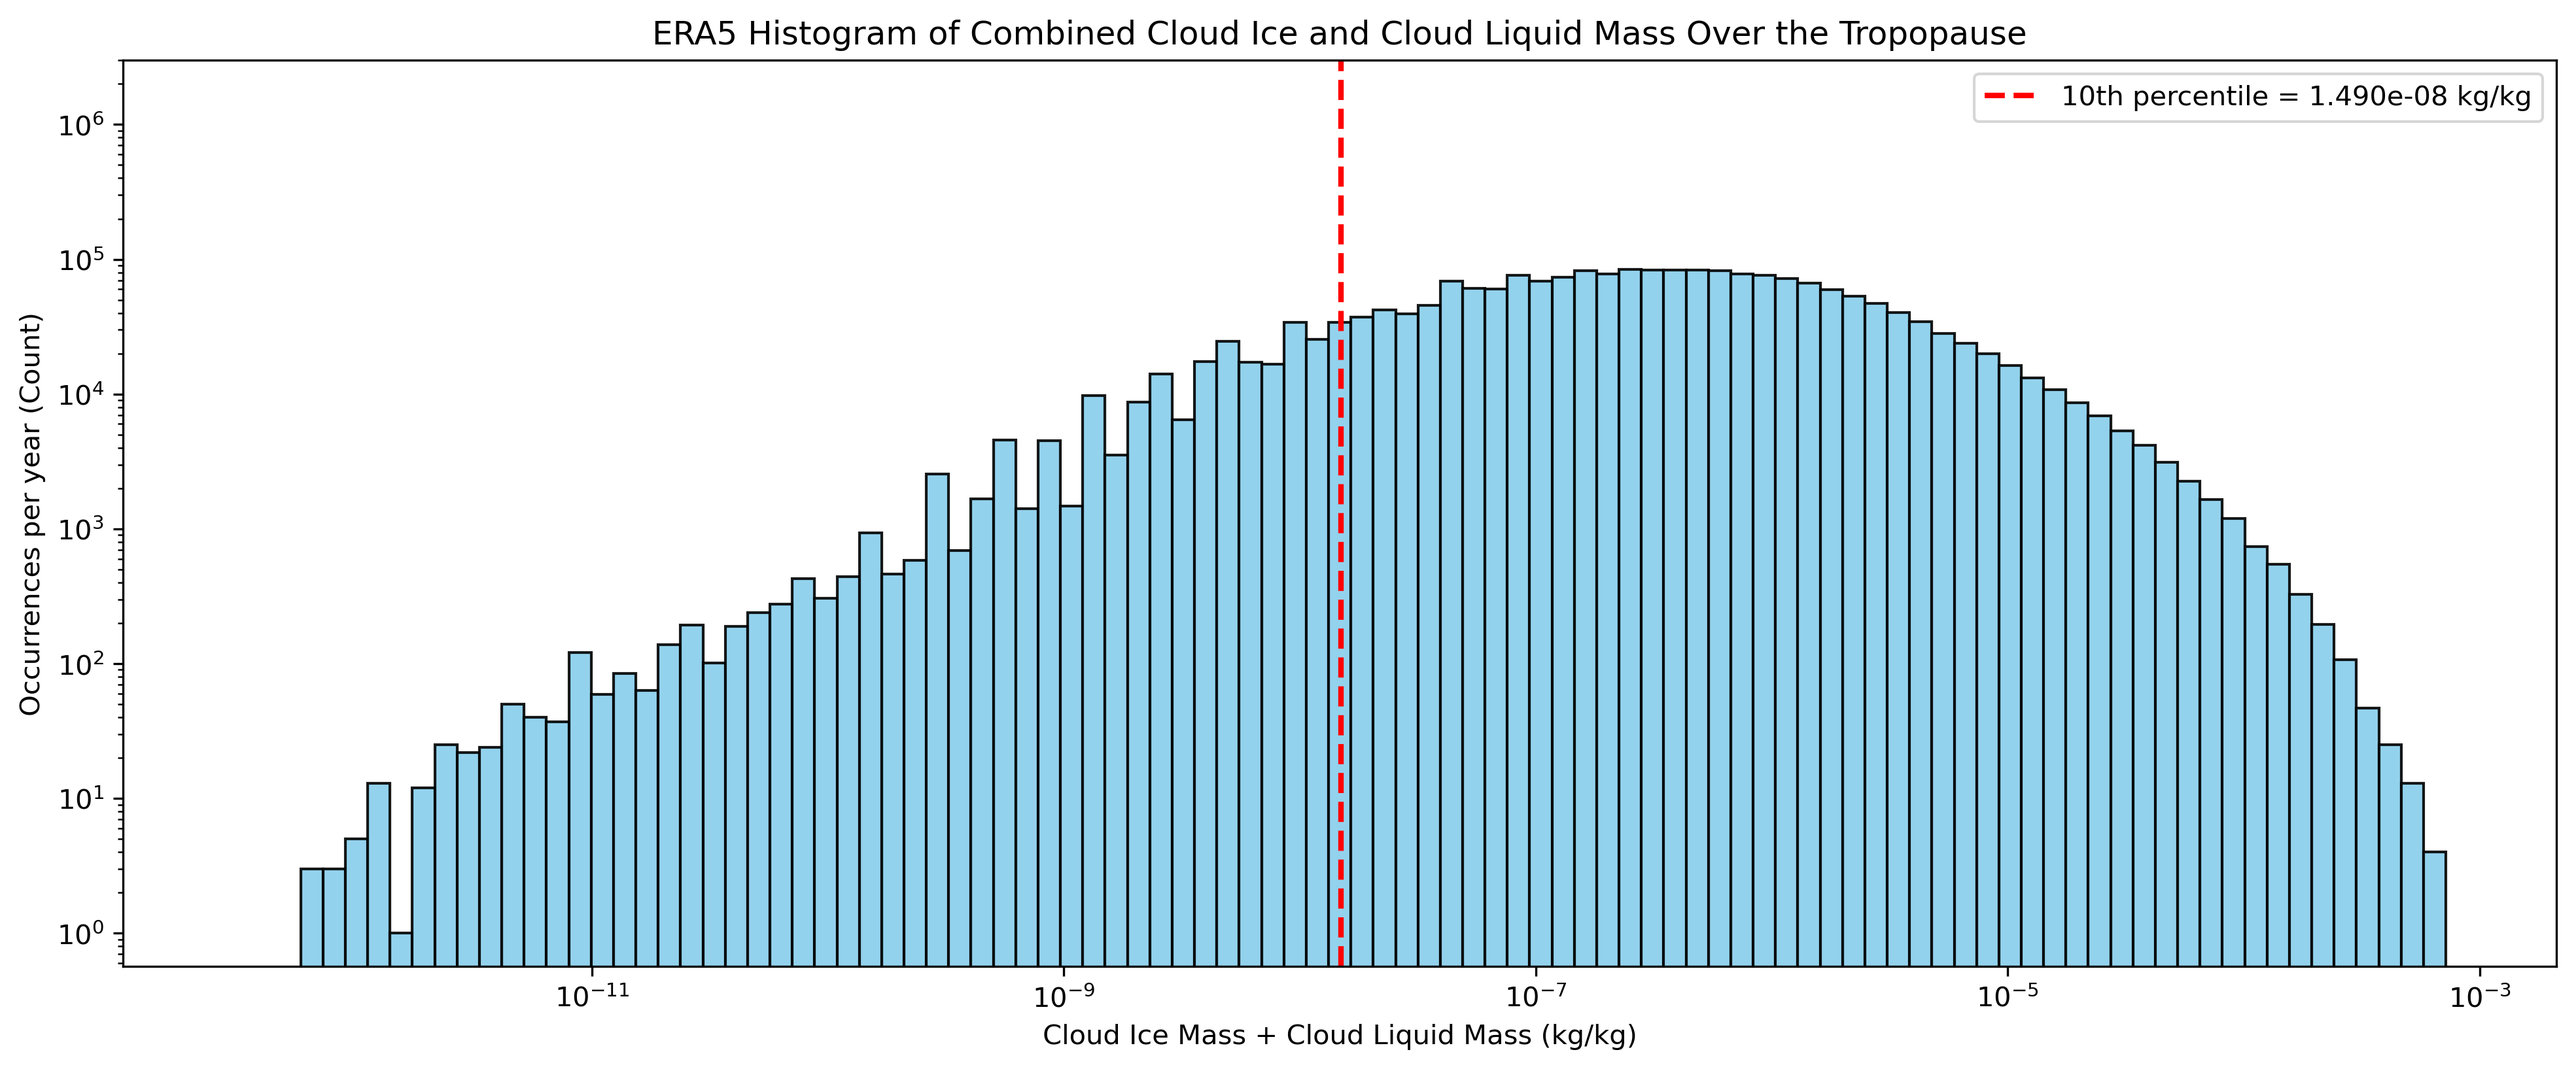
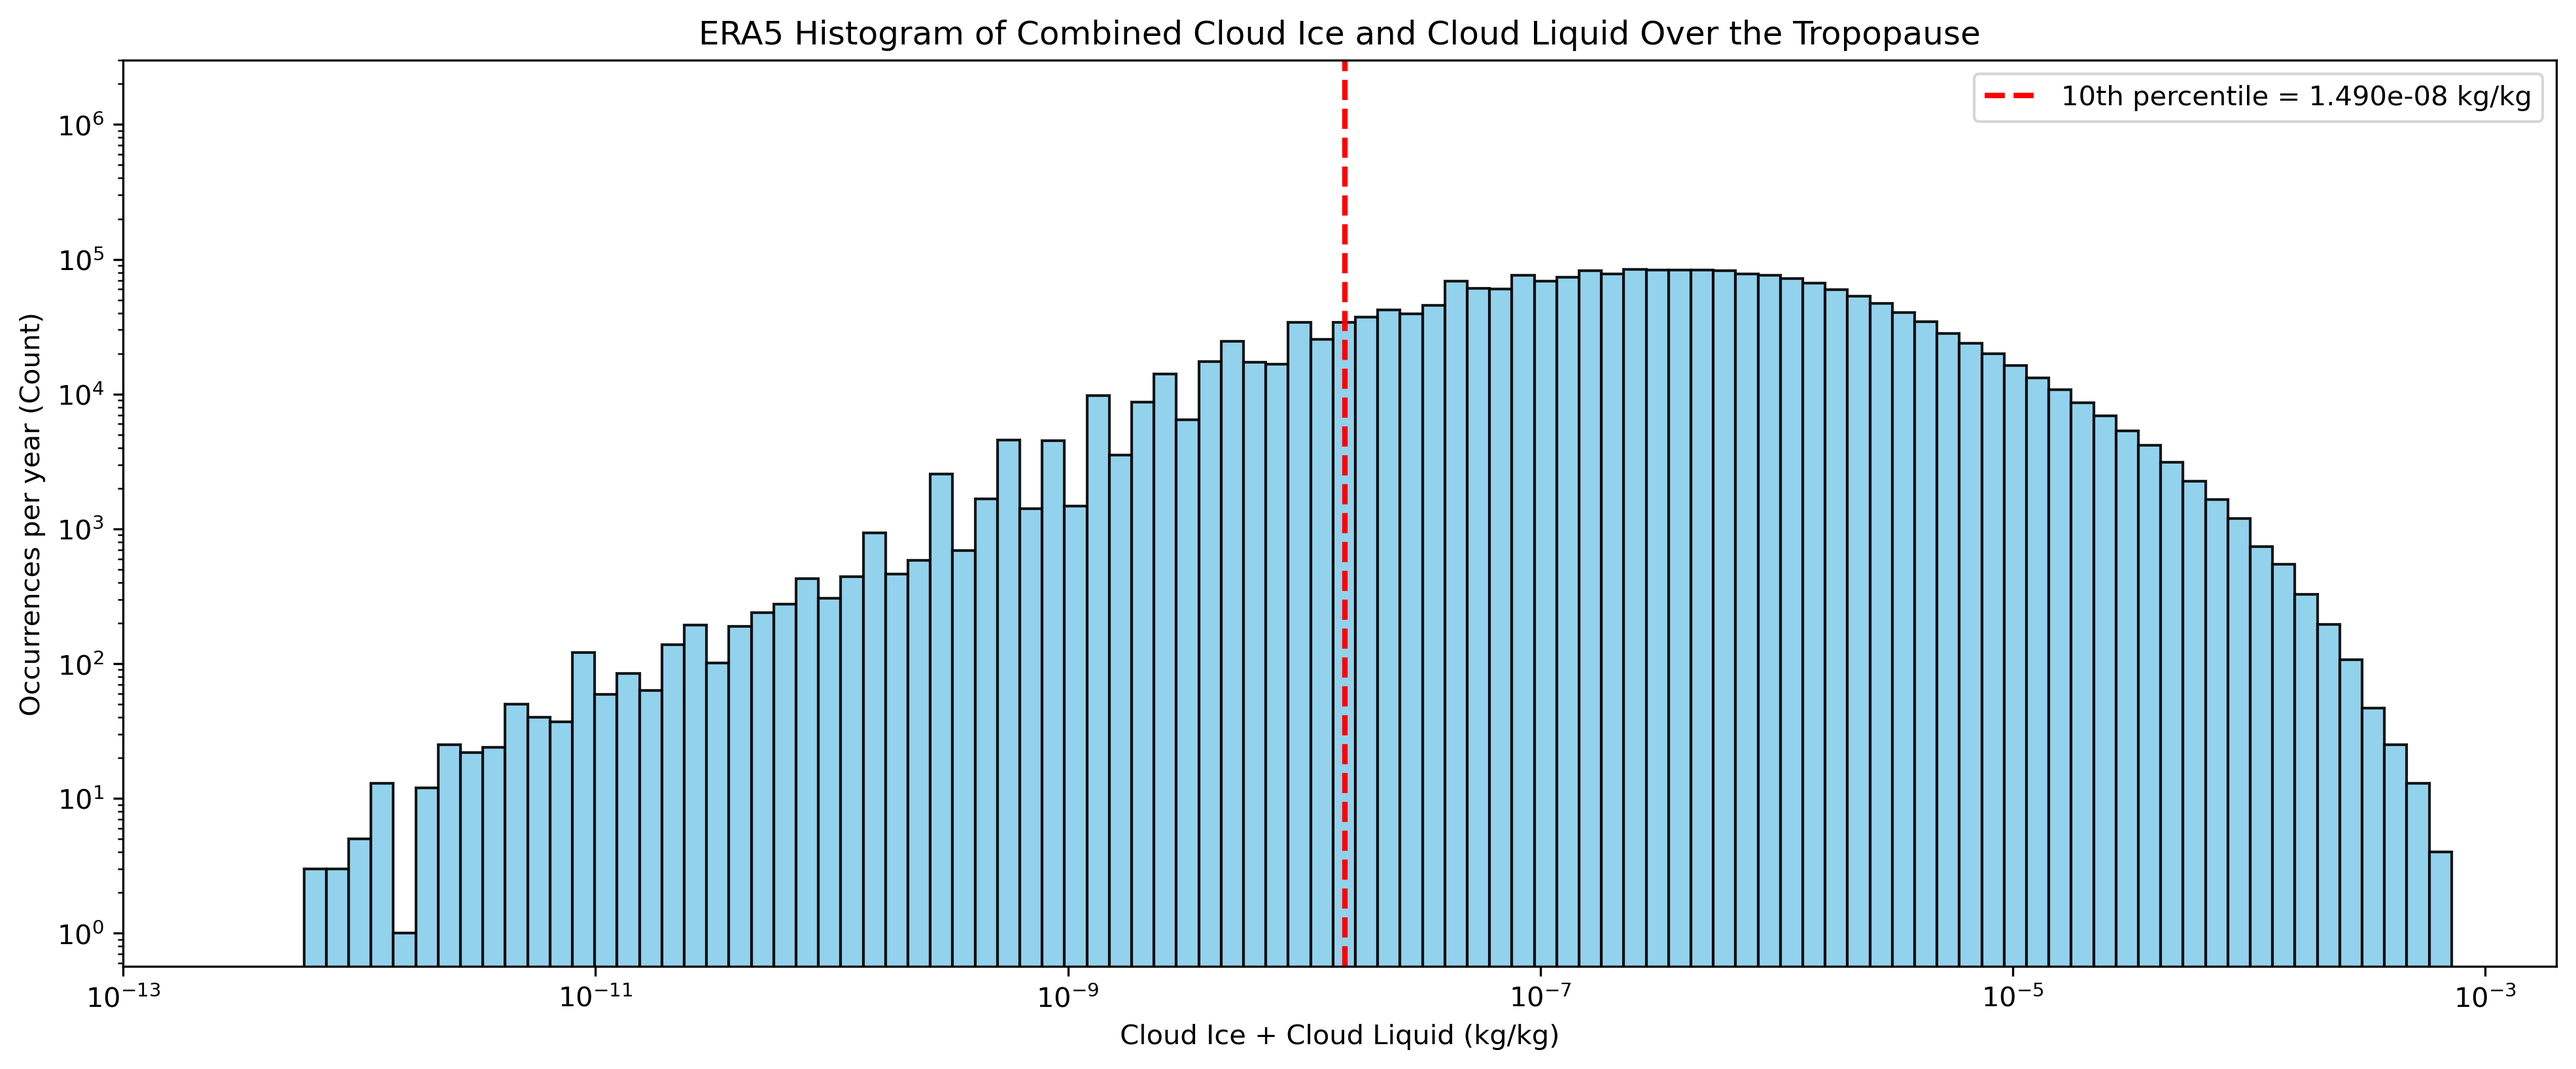
New combined figures

Changed region(s): [[0.1249, 0.2495, 0.9683, 0.9982], [0.2499, 0.0, 0.7809, 0.0624], [0.0312, 0.9046, 0.0625, 0.9358]]

diff --git a/Combining_criteria.py b/Combining_criteria.py
@@ -2,49 +2,86 @@ import matplotlib.pyplot as plt
 import numpy as np
 from PIL import Image
 
-thresholds = np.array([1e-10,1e-09,1e-08,1e-07,1e-06,1e-05,1e-04,1e-03])
-for threshold in thresholds:
-# # 1. Load your existing PNG images
-    img3 = Image.open(f'/home/karengarcia/criteria_testing/Figures/Ice_mass_thresholds/CanAM_ice_above_trop_{threshold}kg_test.png')
-    img2 = Image.open(f'/home/karengarcia/criteria_testing/Figures/Ice_mass_thresholds/ERA5_ice_above_trop_{threshold}kg_test.png')
-    img1 = Image.open(f'/home/karengarcia/criteria_testing/Figures/Ice_mass_thresholds/MERRA_ice_above_trop_{threshold}kg_test.png')
+# thresholds = np.array([1e-10,1e-09,1e-08,1e-07,1e-06,1e-05,1e-04,1e-03])
+# for threshold in thresholds:
+# # # 1. Load your existing PNG images
+#     img3 = Image.open(f'/home/karengarcia/criteria_testing/Figures/Ice_mass_thresholds/CanAM_ice_above_trop_{threshold}kg_test.png')
+#     img2 = Image.open(f'/home/karengarcia/criteria_testing/Figures/Ice_mass_thresholds/ERA5_ice_above_trop_{threshold}kg_test.png')
+#     img1 = Image.open(f'/home/karengarcia/criteria_testing/Figures/Ice_mass_thresholds/MERRA_ice_above_trop_{threshold}kg_test.png')
 
-    # # 2. Create a subplot grid (1 row, 3 columns)
-    fig, axes = plt.subplots(3,1, figsize=(15, 5))
+#     # # 2. Create a subplot grid (1 row, 3 columns)
+#     fig, axes = plt.subplots(3,1, figsize=(15, 5))
 
-    # 3. Display each image in its respective subplot slot
-    axes[0].imshow(img1)
-    axes[0].axis('off')  # Hide the pixel grid lines/axes
+#     # 3. Display each image in its respective subplot slot
+#     axes[0].imshow(img1)
+#     axes[0].axis('off')  # Hide the pixel grid lines/axes
 
-    axes[1].imshow(img2)
-    axes[1].axis('off')
+#     axes[1].imshow(img2)
+#     axes[1].axis('off')
 
-    axes[2].imshow(img3)
-    axes[2].axis('off')
+#     axes[2].imshow(img3)
+#     axes[2].axis('off')
 
-    # 4. Clean up spacing and save the combined image
-    plt.tight_layout()
-    final_plot_path = f'/home/karengarcia/MSc_project/Figures/combined_threshold_cloud_mass_plots_{threshold}.png'
-    plt.savefig(final_plot_path, dpi=300, bbox_inches='tight')
-    print(f"Figure saved to: {final_plot_path}")
+#     # 4. Clean up spacing and save the combined image
+#     plt.tight_layout()
+#     final_plot_path = f'/home/karengarcia/MSc_project/Figures/combined_threshold_cloud_mass_plots_{threshold}.png'
+#     plt.savefig(final_plot_path, dpi=300, bbox_inches='tight')
+#     print(f"Figure saved to: {final_plot_path}")
 
 
-    img4 = Image.open(f'/home/karengarcia/criteria_testing/Figures/Mass_flux_thresholds/MERRA_mf_above_trop_{threshold}kgm2s_test.png')
-    img5 = Image.open(f'/home/karengarcia/criteria_testing/Figures/Mass_flux_thresholds/CanAM_DMCU_above_trop_{threshold}kgm2s_test.png')
+#     img4 = Image.open(f'/home/karengarcia/criteria_testing/Figures/Mass_flux_thresholds/MERRA_mf_above_trop_{threshold}kgm2s_test.png')
+#     img5 = Image.open(f'/home/karengarcia/criteria_testing/Figures/Mass_flux_thresholds/CanAM_DMCU_above_trop_{threshold}kgm2s_test.png')
 
-    fig, axes = plt.subplots(2,1, figsize=(15, 5))
+#     fig, axes = plt.subplots(2,1, figsize=(15, 5))
 
-    # 3. Display each image in its respective subplot slot
-    axes[0].imshow(img4)
-    axes[0].axis('off')  # Hide the pixel grid lines/axes
+#     # 3. Display each image in its respective subplot slot
+#     axes[0].imshow(img4)
+#     axes[0].axis('off')  # Hide the pixel grid lines/axes
 
-    axes[1].imshow(img5)
-    axes[1].axis('off')
+#     axes[1].imshow(img)
+#     axes[1].axis('off')
 
-    # 4. Clean up spacing and save the combined image
-    plt.tight_layout()
-    final_plot_path = f'/home/karengarcia/MSc_project/Figures/combined_threshold_mass_flux_plots_{threshold}.png'
-    plt.savefig(final_plot_path, dpi=300, bbox_inches='tight')
-    print(f"Figure saved to: {final_plot_path}")
-    
-    
+#     # 4. Clean up spacing and save the combined image
+#     plt.tight_layout()
+#     final_plot_path = f'/home/karengarcia/MSc_project/Figures/combined_threshold_mass_flux_plots_{threshold}.png'
+#     plt.savefig(final_plot_path, dpi=300, bbox_inches='tight')
+#     print(f"Figure saved to: {final_plot_path}")
+
+
+#Histograms
+img6 = Image.open('/home/karengarcia/MSc_project/Figures/MERRA_ice_histogram.png')
+img7 = Image.open('/home/karengarcia/MSc_project/Figures/ERA5_ice_histogram.png')
+img8 = Image.open('/home/karengarcia/MSc_project/Figures/total_water_histogram.png')
+
+fig, axes = plt.subplots(3, 1, figsize=(15, 5), gridspec_kw={'height_ratios': [1, 1, 0.9]})
+axes[0].imshow(img6)
+axes[0].axis('off') 
+
+axes[1].imshow(img7)
+axes[1].axis('off')
+
+axes[2].imshow(img8)
+axes[2].axis('off')
+
+plt.tight_layout()
+final_plot_path = '/home/karengarcia/MSc_project/Figures/combined_threshold_cloud_mass_histograms.png'
+plt.savefig(final_plot_path, dpi=300, bbox_inches='tight')
+print(f"Figure saved to: {final_plot_path}")
+
+
+img9  = Image.open('/home/karengarcia/MSc_project/Figures/MERRA_mf_histogram.png')
+img10 = Image.open('/home/karengarcia/MSc_project/Figures/DMCU_histogram.png')
+
+fig, axes = plt.subplots(2, 1, figsize=(10, 5), gridspec_kw={'height_ratios': [1, 0.9]})
+
+axes[0].imshow(img9)
+axes[0].axis('off') 
+
+axes[1].imshow(img10)
+axes[1].axis('off')
+
+plt.tight_layout()
+final_plot_path = '/home/karengarcia/MSc_project/Figures/combined_threshold_mf_histograms.png'
+plt.savefig(final_plot_path, dpi=300, bbox_inches='tight')
+print(f"Figure saved to: {final_plot_path}")
+

diff --git a/Scripts/Ice_histograms.py b/Scripts/Ice_histograms.py
@@ -22,12 +22,12 @@ plt.legend()
 plt.xscale("log")
 plt.yscale("log")
 plt.ylim([0, 3e6])
-
-plt.xlabel("Cloud Ice Mass + Cloud Liquid Mass (kg/kg)")
+plt.xlim([1e-13, 2e-3])
+plt.xlabel("Cloud Ice + Cloud Liquid (kg/kg)")
 plt.ylabel("Occurrences per year (Count)")
-plt.title("ERA5 Histogram of Combined Cloud Ice and Cloud Liquid Mass Over the Tropopause")
+plt.title("ERA5 Histogram of Combined Cloud Ice and Cloud Liquid Over the Tropopause")
 
-plt.savefig("/home/karengarcia/criteria_testing/ERA5_ice_histogram.png",
+plt.savefig("/home/karengarcia/MSc_project/Figures/ERA5_ice_histogram.png",
             dpi=300, bbox_inches='tight')
 
 
@@ -52,11 +52,11 @@ plt.xscale("log")
 plt.yscale("log")
 plt.ylim([0, 3e6])
 
-plt.xlabel("Cloud Ice Mass + Cloud Liquid Mass (kg/kg)")
+plt.xlabel("Cloud Ice + Cloud Liquid (kg/kg)")
 plt.ylabel("Occurrences per year (Count)")
-plt.title("MERRA-2 Histogram of Combined Cloud Ice and Cloud Liquid Mass Over the Tropopause")
+plt.title("MERRA-2 Histogram of Combined Cloud Ice and Cloud Liquid Over the Tropopause")
 
-plt.savefig("/home/karengarcia/criteria_testing/MERRA_ice_histogram.png",
+plt.savefig("/home/karengarcia/MSc_project/Figures/MERRA_ice_histogram.png",
             dpi=300, bbox_inches='tight')
 
 
@@ -82,11 +82,11 @@ plt.xscale("log")
 plt.yscale("log")
 plt.ylim([0, 3e6])
 
-plt.xlabel("Cloud Ice Mass + Cloud Liquid Mass (kg/kg)")
+plt.xlabel("Cloud Ice + Cloud Liquid (kg/kg)")
 plt.ylabel("Occurrences per year (Count)")
 plt.title("ERA5 vs MERRA-2 Overlay")
 
-plt.savefig("/home/karengarcia/criteria_testing/ERA5_vs_MERRA_ice_histogram.png",
+plt.savefig("/home/karengarcia/MSc_project/Figures/ERA5_vs_MERRA_ice_histogram.png",
             dpi=300, bbox_inches='tight')
 
 print("Done.")

diff --git a/Scripts/MERRA2_scripts/Plotting_criteria_tests.py b/Scripts/MERRA2_scripts/Plotting_criteria_tests.py
@@ -49,7 +49,7 @@ thresholds = np.array([1e-10,1e-09,1e-08,1e-07,1e-06,1e-05,1e-04,1e-03])
 limits = [1200,1100,1100,900,500,300,10,10]
 limits2= [500, 500, 500, 500,400,400,200,10]
 for i in range(len(thresholds)):
-    file = f'/home/karengarcia/criteria_testing/Ice_thresholds/MERRA_above_trop_{str(thresholds[i])}_2014.nc' 
+    file = f'/home/karengarcia/criteria_testing/Ice_thresholds/ERA5_above_trop_{str(thresholds[i])}_2014.nc' 
     ds = xr.open_mfdataset(file)
 
     occurence = ds["Ice_above_tp"].sum(dim="time")
